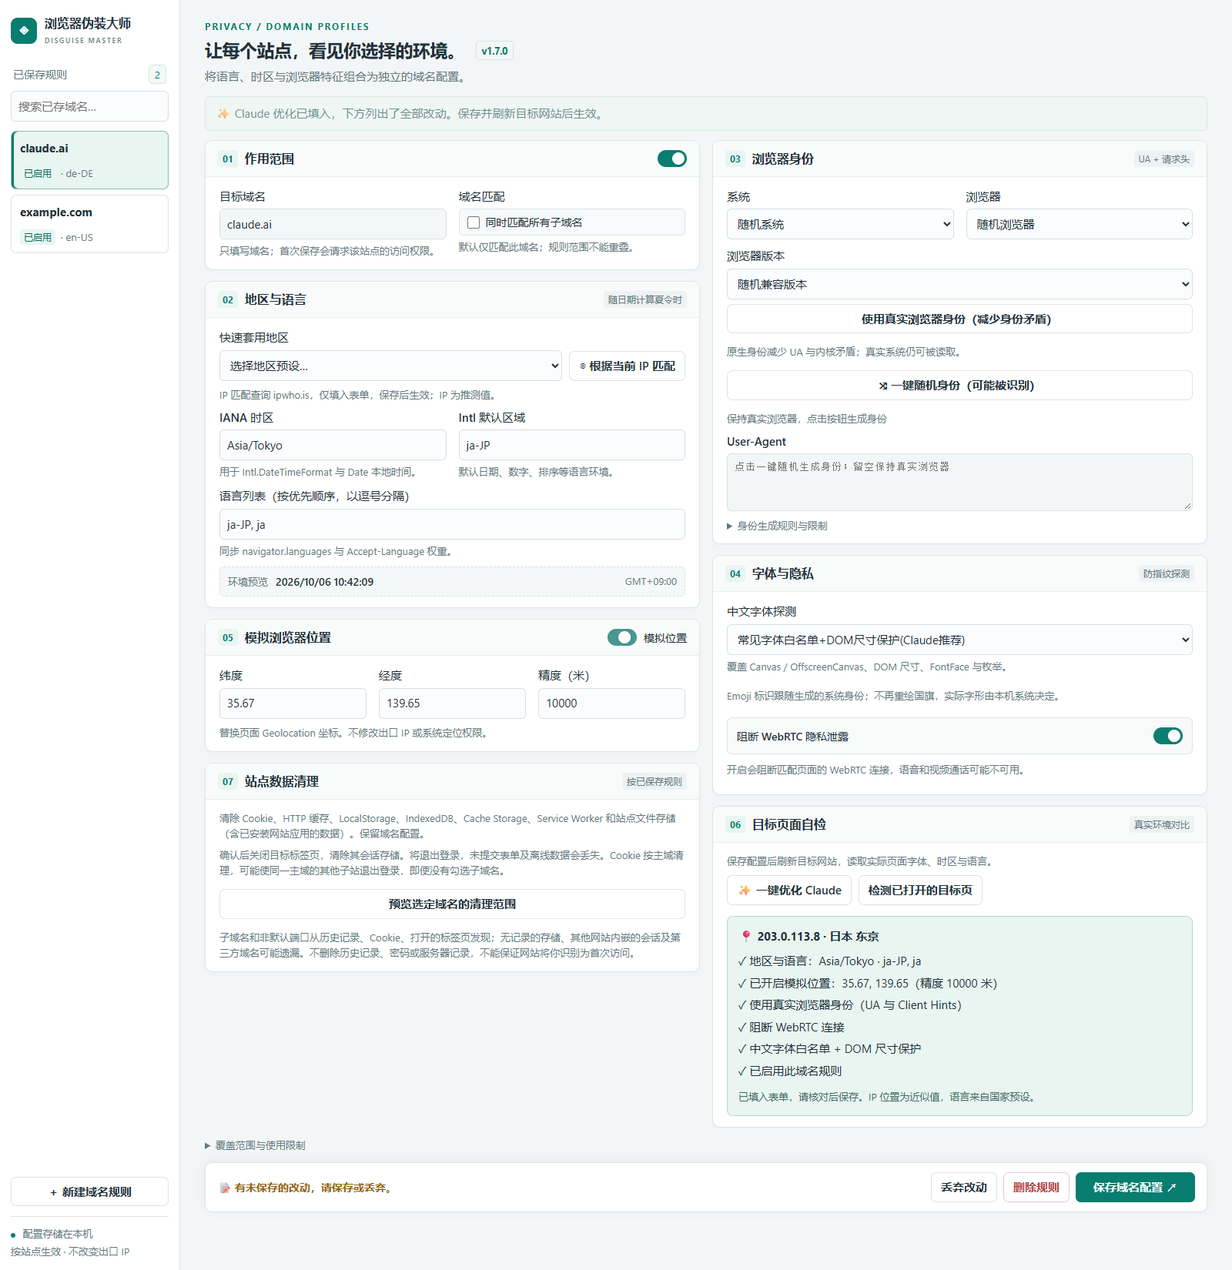
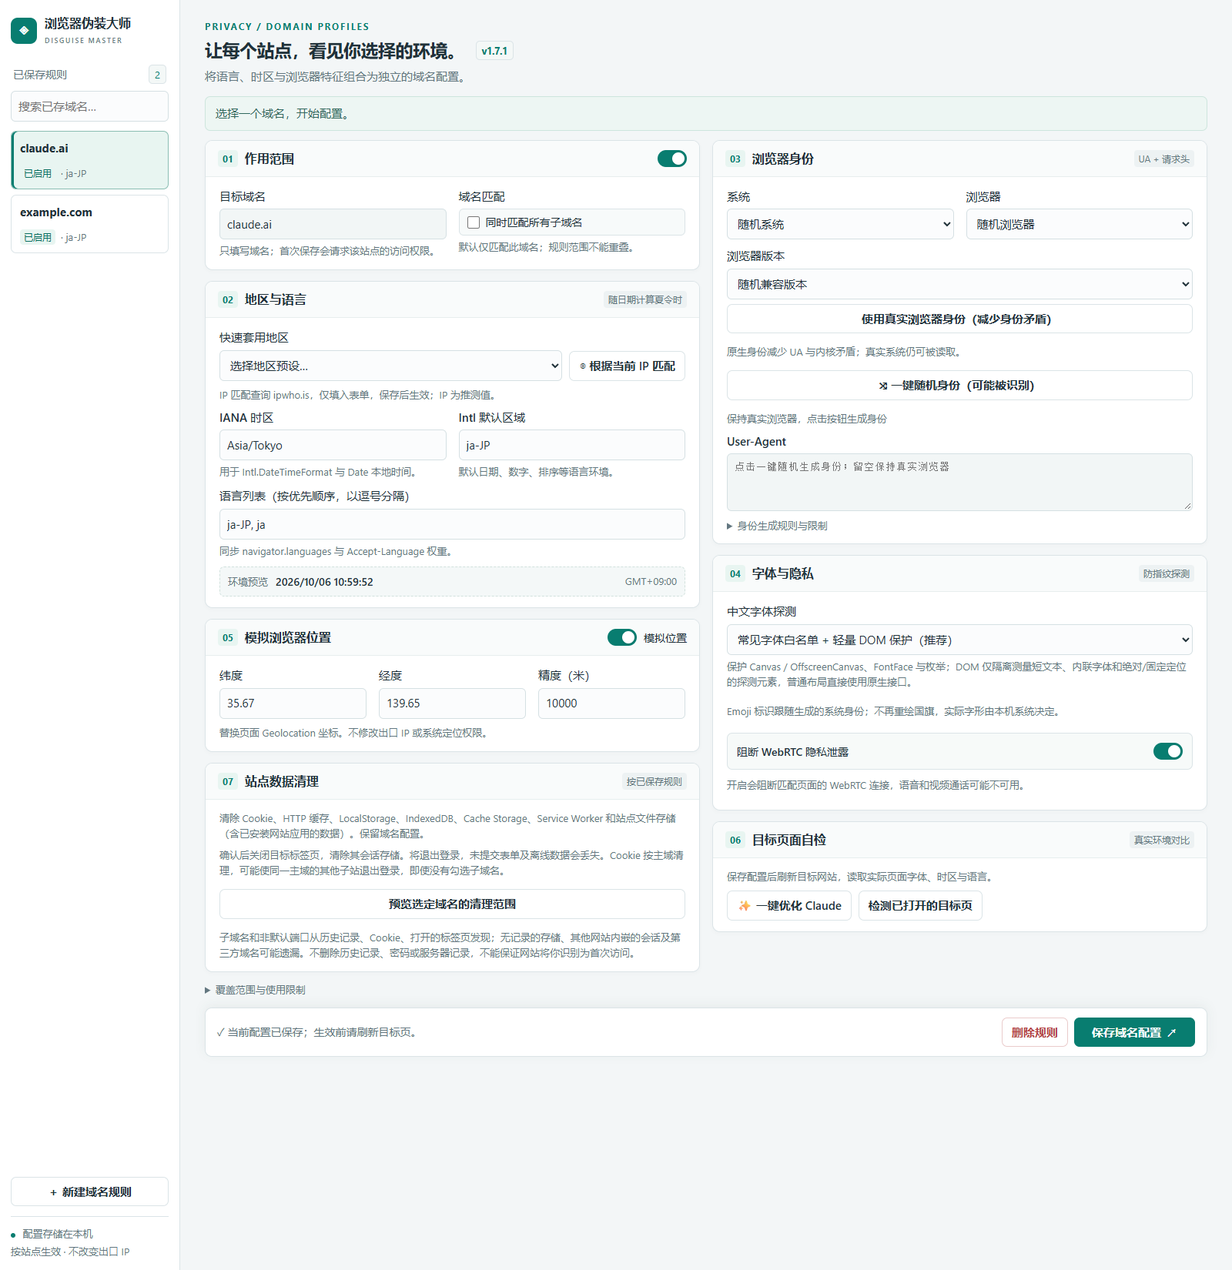
perf: isolate font probes and reduce layout overhead in v1.7.1

diff --git a/inject.js b/inject.js
@@ -12,7 +12,8 @@ export function installProfile(profiles) {
   const dateProto = NativeDate.prototype;
   const nativeGetTime = dateProto.getTime;
   const nativeSetTime = dateProto.setTime;
-  const partsFormatter = new NativeDTF('en-US-u-ca-gregory-nu-latn',{timeZone:p.timezone,year:'numeric',month:'2-digit',day:'2-digit',hour:'2-digit',minute:'2-digit',second:'2-digit',hourCycle:'h23'});
+  let partsFormatter;
+  const nativeTimezone = new NativeDTF().resolvedOptions().timeZone;
   
   // Cache exact UTC seconds, matching Intl precision without assuming transition boundaries.
   const offsetCache = new Map();
@@ -22,6 +23,7 @@ export function installProfile(profiles) {
     const bucket = Math.floor(time / 1000);
     const cached = offsetCache.get(bucket);
     if (cached !== undefined) return cached;
+    partsFormatter ||= new NativeDTF('en-US-u-ca-gregory-nu-latn',{timeZone:p.timezone,year:'numeric',month:'2-digit',day:'2-digit',hour:'2-digit',minute:'2-digit',second:'2-digit',hourCycle:'h23'});
     const parts = Object.fromEntries(partsFormatter.formatToParts(new NativeDate(time)).map(x=>[x.type,x.value]));
     const utc = new NativeDate(0);
     utc.setUTCFullYear(Number(parts.year),Number(parts.month)-1,Number(parts.day));
@@ -31,7 +33,15 @@ export function installProfile(profiles) {
     offsetCache.set(bucket, res);
     return res;
   };
-  const localDate = date=>{ const time = nativeGetTime.call(date); return new NativeDate(time-offset(time)*60000); };
+  // Reuse converted timestamps across consecutive getters; UTC setters still invalidate.
+  const localDates = new WeakMap();
+  const localDate = date=>{
+    const time = nativeGetTime.call(date), cached=localDates.get(date);
+    if(cached?.time===time)return cached.value;
+    const value=new NativeDate(time-offset(time)*60000);
+    localDates.set(date,{time,value});
+    return value;
+  };
   const fromLocal = time=>{
     if (!Number.isFinite(time)) return NaN;
     // Earlier instance in a DST overlap; move forward across a DST gap.
@@ -39,61 +49,64 @@ export function installProfile(profiles) {
     const exact = candidates.filter(t=>Math.abs(t-offset(t)*60000-time)<1);
     return exact.length ? Math.min(...exact) : Math.max(...candidates);
   };
-  method(dateProto,'getTimezoneOffset',function(){return offset(nativeGetTime.call(this));});
-  for (const suffix of ['FullYear','Month','Date','Day','Hours','Minutes','Seconds','Milliseconds']) {
-    method(dateProto,`get${suffix}`,function(){return localDate(this)[`getUTC${suffix}`]();});
-  }
-  method(dateProto,'getYear',function(){return localDate(this).getUTCFullYear()-1900;});
-  for (const suffix of ['FullYear','Month','Date','Hours','Minutes','Seconds','Milliseconds']) {
-    method(dateProto,`set${suffix}`,function(...args){
-      const value = nativeGetTime.call(this);
-      const d = !Number.isFinite(value) && suffix==='FullYear' ? new NativeDate(0) : localDate(this);
-      return nativeSetTime.call(this,fromLocal(d[`setUTC${suffix}`](...args)));
-    });
-  }
-  method(dateProto,'setYear',function(year){
-    year = Number(year);
-    return this.setFullYear(year>=0 && year<=99 ? year+1900:year);
-  });
-  const dateString = date=>{
-    if (!Number.isFinite(nativeGetTime.call(date))) return 'Invalid Date';
-    const d = localDate(date), pad = n=>String(n).padStart(2,'0');
-    return `${['Sun','Mon','Tue','Wed','Thu','Fri','Sat'][d.getUTCDay()]} ${['Jan','Feb','Mar','Apr','May','Jun','Jul','Aug','Sep','Oct','Nov','Dec'][d.getUTCMonth()]} ${pad(d.getUTCDate())} ${String(d.getUTCFullYear()).padStart(4,'0')}`;
-  };
-  const zoneNameFormatter=new NativeDTF('en-US',{timeZone:p.timezone,timeZoneName:'long'});
-  const timeString = date=>{
-    const time = nativeGetTime.call(date);
-    if (!Number.isFinite(time)) return 'Invalid Date';
-    const d = localDate(date), o = -offset(time), pad = n=>String(n).padStart(2,'0');
-    const name = zoneNameFormatter.formatToParts(date).find(x=>x.type==='timeZoneName')?.value || p.timezone;
-    return `${pad(d.getUTCHours())}:${pad(d.getUTCMinutes())}:${pad(d.getUTCSeconds())} GMT${o>=0?'+':'-'}${pad(Math.floor(Math.abs(o)/60))}${pad(Math.abs(o)%60)} (${name})`;
-  };
-  method(dateProto,'toDateString',function(){return dateString(this);});
-  method(dateProto,'toTimeString',function(){return timeString(this);});
-  method(dateProto,'toString',function(){return Number.isFinite(nativeGetTime.call(this))?`${dateString(this)} ${timeString(this)}`:'Invalid Date';});
-  const nativeParse = NativeDate.parse;
-  const parse = value=>{
-    const text = String(value);
-    // ISO date-only strings are UTC by specification. Zone-less date-times are local.
-    const m = /^(\d{4})-(\d{2})-(\d{2})[T ](\d{2}):(\d{2})(?::(\d{2})(?:\.(\d{1,3}))?)?$/.exec(text);
-    if (m) {
-      const utc = nativeParse(`${m[1]}-${m[2]}-${m[3]}T${m[4]}:${m[5]}:${m[6]||'00'}.${(m[7]||'0').padEnd(3,'0')}Z`);
-      return fromLocal(utc);
+  // Preserve native Date fast paths when the requested zone already matches.
+  if(p.timezone!==nativeTimezone){
+    method(dateProto,'getTimezoneOffset',function(){return offset(nativeGetTime.call(this));});
+    for (const suffix of ['FullYear','Month','Date','Day','Hours','Minutes','Seconds','Milliseconds']) {
+      method(dateProto,`get${suffix}`,function(){return localDate(this)[`getUTC${suffix}`]();});
     }
-    return nativeParse(text);
-  };
-  const WrappedDate = new Proxy(NativeDate,{
-    apply(){return new NativeDate().toString();},
-    construct(target,args,newTarget){
-      let next = args;
-      if (args.length>=2) next = [fromLocal(NativeDate.UTC(...args))];
-      else if (args.length===1 && typeof args[0]==='string') next = [parse(args[0])];
-      return Reflect.construct(target,next,newTarget);
-    },
-    get(target,key,receiver){ return key==='parse' ? parse : Reflect.get(target,key,receiver); }
-  });
-  method(globalThis,'Date',WrappedDate);
-  method(dateProto,'constructor',WrappedDate);
+    method(dateProto,'getYear',function(){return localDate(this).getUTCFullYear()-1900;});
+    for (const suffix of ['FullYear','Month','Date','Hours','Minutes','Seconds','Milliseconds']) {
+      method(dateProto,`set${suffix}`,function(...args){
+        const value = nativeGetTime.call(this);
+        const d = !Number.isFinite(value) && suffix==='FullYear' ? new NativeDate(0) : localDate(this);
+        return nativeSetTime.call(this,fromLocal(d[`setUTC${suffix}`](...args)));
+      });
+    }
+    method(dateProto,'setYear',function(year){
+      year = Number(year);
+      return this.setFullYear(year>=0 && year<=99 ? year+1900:year);
+    });
+    const dateString = date=>{
+      if (!Number.isFinite(nativeGetTime.call(date))) return 'Invalid Date';
+      const d = localDate(date), pad = n=>String(n).padStart(2,'0');
+      return `${['Sun','Mon','Tue','Wed','Thu','Fri','Sat'][d.getUTCDay()]} ${['Jan','Feb','Mar','Apr','May','Jun','Jul','Aug','Sep','Oct','Nov','Dec'][d.getUTCMonth()]} ${pad(d.getUTCDate())} ${String(d.getUTCFullYear()).padStart(4,'0')}`;
+    };
+    const zoneNameFormatter=new NativeDTF('en-US',{timeZone:p.timezone,timeZoneName:'long'});
+    const timeString = date=>{
+      const time = nativeGetTime.call(date);
+      if (!Number.isFinite(time)) return 'Invalid Date';
+      const d = localDate(date), o = -offset(time), pad = n=>String(n).padStart(2,'0');
+      const name = zoneNameFormatter.formatToParts(date).find(x=>x.type==='timeZoneName')?.value || p.timezone;
+      return `${pad(d.getUTCHours())}:${pad(d.getUTCMinutes())}:${pad(d.getUTCSeconds())} GMT${o>=0?'+':'-'}${pad(Math.floor(Math.abs(o)/60))}${pad(Math.abs(o)%60)} (${name})`;
+    };
+    method(dateProto,'toDateString',function(){return dateString(this);});
+    method(dateProto,'toTimeString',function(){return timeString(this);});
+    method(dateProto,'toString',function(){return Number.isFinite(nativeGetTime.call(this))?`${dateString(this)} ${timeString(this)}`:'Invalid Date';});
+    const nativeParse = NativeDate.parse;
+    const parse = value=>{
+      const text = String(value);
+      // ISO date-only strings are UTC by specification. Zone-less date-times are local.
+      const m = /^(\d{4})-(\d{2})-(\d{2})[T ](\d{2}):(\d{2})(?::(\d{2})(?:\.(\d{1,3}))?)?$/.exec(text);
+      if (m) {
+        const utc = nativeParse(`${m[1]}-${m[2]}-${m[3]}T${m[4]}:${m[5]}:${m[6]||'00'}.${(m[7]||'0').padEnd(3,'0')}Z`);
+        return fromLocal(utc);
+      }
+      return nativeParse(text);
+    };
+    const WrappedDate = new Proxy(NativeDate,{
+      apply(){return new NativeDate().toString();},
+      construct(target,args,newTarget){
+        let next = args;
+        if (args.length>=2) next = [fromLocal(NativeDate.UTC(...args))];
+        else if (args.length===1 && typeof args[0]==='string') next = [parse(args[0])];
+        return Reflect.construct(target,next,newTarget);
+      },
+      get(target,key,receiver){ return key==='parse' ? parse : Reflect.get(target,key,receiver); }
+    });
+    method(globalThis,'Date',WrappedDate);
+    method(dateProto,'constructor',WrappedDate);
+  }
   for (const name of ['DateTimeFormat','NumberFormat','Collator','PluralRules','RelativeTimeFormat','ListFormat','DisplayNames','Segmenter']) {
     const Original = Intl[name];
     if (!Original) continue;
@@ -230,71 +243,69 @@ export function installProfile(profiles) {
     method(proto,'check',function(font,text){return hasBlockedFont(font)?false:check.call(this,font,text);});
     method(proto,'load',function(font,text){return hasBlockedFont(font)?Promise.resolve([]):load.call(this,font,text);});
   }
-  if(p.fonts!=='native' && globalThis.Element && globalThis.CSSStyleDeclaration){
-    const setProperty=CSSStyleDeclaration.prototype.setProperty,removeProperty=CSSStyleDeclaration.prototype.removeProperty;
+  // Restrict DOM protection to short, explicitly styled, positioned font probes.
+  // Normal app geometry must not read computed styles or mutate live elements.
+  if(p.fonts==='strict' && globalThis.HTMLElement && globalThis.CSSStyleDeclaration){
+    const nativeRect=Element.prototype.getBoundingClientRect;
     const nativeComputed=globalThis.getComputedStyle.bind(globalThis);
-    let measurements=new WeakMap(),resetPending=false;
-    const resetMeasurements=()=>{measurements=new WeakMap();};
-    const changes=new MutationObserver(resetMeasurements);
-
-    const typography=style=>[style.font,style.fontFamily,style.letterSpacing,style.wordSpacing,style.lineHeight,style.textTransform,style.fontFeatureSettings,style.fontVariationSettings,style.writingMode].join('|');
-    // Stylesheets, inheritance, CSS variables and !important may override inline fonts.
-    // Read the resolved family; only mutate styles when substitution is necessary.
-    const withFont=(element,read,key)=>{
-      if(!element.style || !element.isConnected)return read();
-      if(changes.takeRecords().length)resetMeasurements();
-      const computed=nativeComputed(element),family=computed.fontFamily;
-      const testString=`16px ${family}`;
-      if(!hasBlockedFont(testString))return read();
-      // Reuse repeated leaf measurements only within this synchronous task.
-      // Native geometry and computed typography are still checked every time.
-      // Containers, shadow trees and live rect lists retain the uncached path.
-      const reusable=key && !element.children.length && element.getRootNode()===document;
-      let signature,entries;
-      if(reusable){
-        const raw=read();
-        signature=typography(computed)+'|'+(typeof raw==='number'?raw:[raw.x,raw.y,raw.width,raw.height].join(','));
-        entries=measurements.get(element);
-        const cached=entries?.get(key);
-        if(cached?.signature===signature)return key==='rect'?new DOMRect(...cached.value):cached.value;
-        if(!resetPending){
-          resetPending=true;
-          changes.observe(document,{subtree:true,attributes:true,childList:true,characterData:true});
-          queueMicrotask(()=>{resetPending=false;changes.disconnect();resetMeasurements();});
-        }
-      }
-      const previous=element.style.getPropertyValue('font-family'),priority=element.style.getPropertyPriority('font-family');
-      const clean=normalizeFont(testString).replace(/^16px\s+/i,'');
-      let result;
-      try{setProperty.call(element.style,'font-family',clean,'important');result=read();}
-      finally{
-        if(previous)setProperty.call(element.style,'font-family',previous,priority);else removeProperty.call(element.style,'font-family');
-        // Drain only our private observer; page observers still receive changes.
-        changes.takeRecords();
-      }
-      if(reusable){
-        if(!entries){entries=new Map();measurements.set(element,entries);}
-        entries.set(key,{signature,value:key==='rect'?[result.x,result.y,result.width,result.height]:result});
-      }
-      return result;
+    const metrics=new Map();
+    let probeHost,probe;
+    const typography=['fontFamily','fontSize','fontStyle','fontWeight','fontStretch','fontVariant','fontFeatureSettings','fontVariationSettings','fontKerning','fontOpticalSizing','fontSizeAdjust','letterSpacing','wordSpacing','lineHeight','textTransform','textIndent','textRendering','whiteSpace','wordBreak','overflowWrap','writingMode','direction','tabSize','boxSizing','paddingTop','paddingRight','paddingBottom','paddingLeft','borderTopWidth','borderRightWidth','borderBottomWidth','borderLeftWidth','borderTopStyle','borderRightStyle','borderBottomStyle','borderLeftStyle'];
+    const candidate=element=>{
+      if(!(element instanceof HTMLElement)||!element.isConnected||element.childElementCount)return false;
+      const style=element.style;
+      if(style.position!=='absolute'&&style.position!=='fixed')return false;
+      return !!style.fontFamily && hasBlockedFont(`16px ${style.fontFamily}`) && element.textContent.length>0 && element.textContent.length<=256;
     };
-    for(const name of ['getBoundingClientRect','getClientRects']){
-      const original=Element.prototype[name];
-      method(Element.prototype,name,function(...args){return withFont(this,()=>Reflect.apply(original,this,args),name==='getBoundingClientRect'?'rect':null);});
+    const measure=(element,key,read)=>{
+      if(!candidate(element))return read.call(element);
+      const computed=nativeComputed(element);
+      // Avoid imitating widgets, transforms and explicitly sized layout boxes.
+      if(computed.transform!=='none'||computed.display==='none'||element.style.width||element.style.height)return read.call(element);
+      const font=normalizeFont(`16px ${computed.fontFamily}`).slice(5);
+      if(font===computed.fontFamily)return read.call(element);
+      const values=typography.map(name=>computed[name]);
+      const signature=JSON.stringify([key,element.textContent,element.style.cssText,values,devicePixelRatio,document.fonts?.status]);
+      let value=metrics.get(signature);
+      if(value===undefined){
+        // Only this shadow tree changes; page observers never see probe mutations.
+        // The live source element's styles and layout are never rewritten.
+        if(!probeHost?.isConnected){
+          probeHost=document.createElement('div');
+          probeHost.style.cssText='all:initial!important;position:fixed!important;left:-100000px!important;top:0!important;width:0!important;height:0!important;contain:strict!important;visibility:hidden!important;pointer-events:none!important;';
+          const root=probeHost.attachShadow({mode:'closed'});
+          probe=document.createElement('span');root.append(probe);
+          document.documentElement.append(probeHost);
+        }
+        probe.style.cssText='all:initial;position:absolute;width:max-content;height:auto;visibility:hidden;';
+        for(let i=0;i<typography.length;i++)probe.style[typography[i]]=values[i];
+        probe.style.fontFamily=font;
+        probe.textContent=element.textContent;
+        const result=read.call(probe);
+        value=key==='rect'?[result.width,result.height]:result;
+        if(metrics.size>=256)metrics.delete(metrics.keys().next().value);
+        metrics.set(signature,value);
+      }
+      if(key!=='rect')return value;
+      const original=nativeRect.call(element);
+      return new DOMRect(original.x,original.y,...value);
+    };
+    method(Element.prototype,'getBoundingClientRect',function(){return measure(this,'rect',nativeRect);});
+    for(const [proto,names]of [[HTMLElement.prototype,['offsetWidth','offsetHeight']],[Element.prototype,['clientWidth','clientHeight','scrollWidth','scrollHeight']]]){
+      for(const name of names){const descriptor=Object.getOwnPropertyDescriptor(proto,name);if(descriptor?.get)define(proto,name,{...descriptor,get:function(){return measure(this,name,descriptor.get);}});}
     }
-    for(const [proto,names]of [[globalThis.HTMLElement?.prototype,['offsetWidth','offsetHeight']],[Element.prototype,['clientWidth','clientHeight','scrollWidth','scrollHeight']]]){
-      if(!proto)continue;
-      for(const name of names){const descriptor=Object.getOwnPropertyDescriptor(proto,name);if(descriptor?.get)define(proto,name,{...descriptor,get:function(){return withFont(this,()=>descriptor.get.call(this),name);}});}
-    }
-    if(globalThis.FontFace){
-      const Original=FontFace;
-      const Wrapped=new Proxy(Original,{construct(target,args,newTarget){
-        const next=[...args];
-        if(typeof next[1]==='string')next[1]=next[1].replace(/local\(([^)]*)\)/gi,(whole,name)=>hiddenFamily(name)?'local("__bdm_unavailable_cjk_7cf2e01a__")':whole);
-        return Reflect.construct(target,next,newTarget);
-      }});
-      method(globalThis,'FontFace',Wrapped);
-    }
-    if(globalThis.queryLocalFonts){const original=globalThis.queryLocalFonts;method(globalThis,'queryLocalFonts',async function(...args){return (await Reflect.apply(original,this,args)).filter(font=>!hiddenFamily(font.family));});}
+    // Bounded cache; no document-wide observer or animation-frame polling.
+    document.fonts?.addEventListener('loadingdone',()=>metrics.clear());
+    document.fonts?.addEventListener('loadingerror',()=>metrics.clear());
   }
+  if(globalThis.FontFace){
+    const Original=FontFace;
+    const Wrapped=new Proxy(Original,{construct(target,args,newTarget){
+      const next=[...args];
+      if(typeof next[1]==='string')next[1]=next[1].replace(/local\(([^)]*)\)/gi,(whole,name)=>hiddenFamily(name)?'local("__bdm_unavailable_cjk_7cf2e01a__")':whole);
+      return Reflect.construct(target,next,newTarget);
+    }});
+    method(globalThis,'FontFace',Wrapped);
+  }
+  if(globalThis.queryLocalFonts){const original=globalThis.queryLocalFonts;method(globalThis,'queryLocalFonts',async function(...args){return (await Reflect.apply(original,this,args)).filter(font=>!hiddenFamily(font.family));});}
 }

diff --git a/options.html b/options.html
@@ -30,7 +30,7 @@
       <header>
         <div>
           <div class="eyebrow">PRIVACY / DOMAIN PROFILES</div>
-          <h1>让每个站点，看见你选择的环境。<span class="version">v1.7.0</span></h1>
+          <h1>让每个站点，看见你选择的环境。<span class="version">v1.7.1</span></h1>
           <p>将语言、时区与浏览器特征组合为独立的域名配置。</p>
         </div>
       </header>
@@ -154,7 +154,7 @@
               </div>
               <div class="card-body">
                 <div class="grid">
-                  <label class="wide">中文字体探测<select id="fonts"><option value="strict">常见字体白名单+DOM尺寸保护(Claude推荐)</option><option value="normalize">隐藏指定中文字体（保留原回退字体）</option><option value="native">保持原始字体行为</option></select><small>覆盖 Canvas / OffscreenCanvas、DOM 尺寸、FontFace 与枚举。</small></label>
+                  <label class="wide">中文字体探测<select id="fonts"><option value="strict">常见字体白名单 + 轻量 DOM 保护（推荐）</option><option value="normalize">仅隐藏指定中文字体（不处理 DOM 尺寸）</option><option value="native">保持原始字体行为</option></select><small>保护 Canvas / OffscreenCanvas、FontFace 与枚举；DOM 仅隔离测量短文本、内联字体和绝对/固定定位的探测元素，普通布局直接使用原生接口。</small></label>
                   <p class="hint wide">Emoji 标识跟随生成的系统身份；不再重绘国旗，实际字形由本机系统决定。</p>
                   <div class="wide privacy-toggle">
                     <label class="switch">
@@ -190,7 +190,7 @@
         <details class="limits">
           <summary>覆盖范围与使用限制</summary>
           <p>生效于 HTTP / HTTPS 匹配域名的文档与独立匹配的子框架。修改后请重新加载目标页；关闭规则也需要重新加载。Worker、Service Worker、未匹配的跨域 iframe、about:blank / srcdoc、新窗口的极早期同步探测、浏览器内部页不在完整覆盖范围内。</p>
-          <p>字体处理覆盖常见 DOM 尺寸接口和本页字体枚举，但不能完整覆盖 SVG、跨上下文或所有系统渠道；Emoji 保留本机字形，系统身份不改变真实渲染。Date 的非标准字符串解析、极端历史年份可能仍保留真实环境特征。网页可以识别 JavaScript 改写，不能保证通过所有指纹检测。请求头只修改发往配置域名的请求，不修改发往其他域名的第三方请求。</p>
+          <p>轻量 DOM 保护不覆盖纯样式表字体、容器、内联固定宽高、变换元素及 getClientRects；不能完整覆盖 SVG、跨上下文或所有系统渠道。Emoji 保留本机字形，系统身份不改变真实渲染。Date 的非标准字符串解析、极端历史年份可能仍保留真实环境特征。网页可以识别 JavaScript 改写，不能保证通过所有指纹检测。请求头只修改发往配置域名的请求，不修改发往其他域名的第三方请求。</p>
         </details>
 
         <footer>

diff --git a/options.js b/options.js
@@ -287,7 +287,7 @@ async function matchIP(optimize=false){
     const title=document.createElement('strong');title.textContent=`📍 ${r.ip} · ${r.country||''} ${r.city||''}`;result.append(title);
     const list=document.createElement('ul');
     const items=[`✓ 地区与语言：${update.timezone} · ${update.languages.join(', ')}`,`✓ 已开启模拟位置：${update.latitude}, ${update.longitude}（精度 ${update.accuracy} 米）`];
-    if(optimize)items.push('✓ 使用真实浏览器身份（UA 与 Client Hints）','✓ 阻断 WebRTC 连接','✓ 中文字体白名单 + DOM 尺寸保护','✓ 已启用此域名规则');
+    if(optimize)items.push('✓ 使用真实浏览器身份（UA 与 Client Hints）','✓ 阻断 WebRTC 连接','✓ 中文字体白名单 + 轻量 DOM 保护','✓ 已启用此域名规则');
     for(const text of items){const item=document.createElement('li');item.textContent=text;list.append(item);}
     result.append(list);const hint=document.createElement('p');hint.textContent='已填入表单，请核对后保存。IP 位置为近似值，语言来自国家预设。';result.append(hint);result.hidden=false;
     if(optimize)result.scrollIntoView({block:'nearest',behavior:'instant'});

diff --git a/version.js b/version.js
@@ -1,11 +1,11 @@
 // This module is evaluated separately in the UI and the service worker.
 // Compare loaded code versions, not getManifest(), which can hide stale workers.
-export const BUILD = '1.7.0';
+export const BUILD = '1.7.1';
 
 export const MODE_OPTIONS = {
   fonts: [
-    ['strict', '常见字体白名单+DOM尺寸保护(Claude推荐)'],
-    ['normalize', '隐藏指定中文字体（保留原回退字体）'],
+    ['strict', '常见字体白名单 + 轻量 DOM 保护（推荐）'],
+    ['normalize', '仅隐藏指定中文字体（不处理 DOM 尺寸）'],
     ['native', '保持原始字体行为'],
   ],
   emoji: [

diff --git a/popup.html b/popup.html
@@ -9,7 +9,7 @@
   <div class="brand">
     <span class="brand-icon">◈</span>
     <div>浏览器伪装大师<small>DISGUISE MASTER</small></div>
-    <span class="version" style="margin-left:auto;">v1.7.0</span>
+    <span class="version" style="margin-left:auto;">v1.7.1</span>
   </div>
 
   <div class="card">
